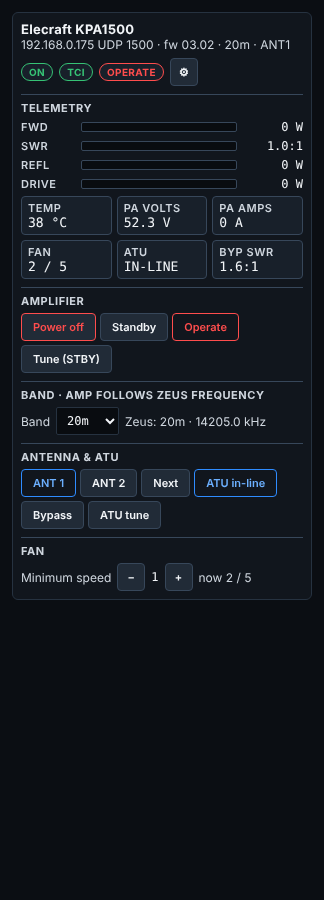
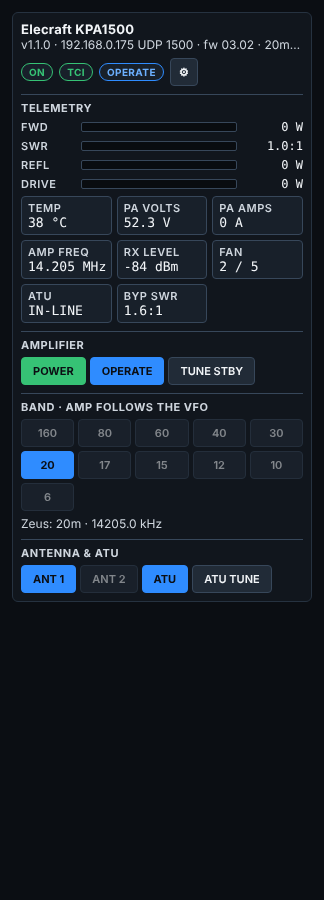
1.1.0: lit toggle buttons, band buttons, always-visible RX level, version in header
- POWER / OPERATE / ATU / TUNE STBY / ATU TUNE are single toggles, filled
  when active (OPERATE blue, POWER green, tuning amber)
- ANT 1/2 and a band button row light the active choice and fade the rest
- Locked controls keep a dashed outline so locked never looks like inactive
- RX level tile shows TCI off / TCI wait instead of disappearing
- Header shows the feature version; OPERATE tag is blue, red only for TX

Claude-Session: https://claude.ai/code/session_012y4gHm9L1yG8h6Yc21BskF

diff --git a/src/Kpa1500/ui/kpa1500.es.js b/src/Kpa1500/ui/kpa1500.es.js
@@ -67,8 +67,13 @@ const CSS = `
 .${ROOT} button.${ROOT}__b:focus-visible,.${ROOT} .${ROOT}__in:focus-visible,.${ROOT} input[type=checkbox]:focus-visible,
 .${ROOT} input[type=radio]:focus-visible{outline:2px solid var(--accent-bright);outline-offset:2px}
 .${ROOT} button.${ROOT}__b:disabled{opacity:.75;border-style:dashed;cursor:not-allowed}
-.${ROOT} button.${ROOT}__b[aria-pressed=true]{border-color:var(--accent);color:var(--accent-bright);background:var(--bg-1)}
-.${ROOT} button.${ROOT}__b.${ROOT}__oper[aria-pressed=true]{border-color:var(--tx);color:var(--tx)}
+.${ROOT} button.${ROOT}__b[aria-pressed=true]{background:var(--accent);border-color:var(--accent);color:var(--bg-0);font-weight:700}
+.${ROOT} button.${ROOT}__b.${ROOT}__litok[aria-pressed=true]{background:var(--ok);border-color:var(--ok)}
+.${ROOT} button.${ROOT}__b.${ROOT}__litamber[aria-pressed=true]{background:var(--amber);border-color:var(--amber)}
+.${ROOT} button.${ROOT}__b.${ROOT}__faint{opacity:.5}
+.${ROOT} button.${ROOT}__b.${ROOT}__faint:hover:not(:disabled){opacity:.85}
+.${ROOT} .${ROOT}__bands{display:grid;grid-template-columns:repeat(auto-fill,minmax(44px,1fr));gap:4px}
+.${ROOT} .${ROOT}__bands button.${ROOT}__b{padding:4px 2px}
 .${ROOT} button.${ROOT}__b.${ROOT}__danger{border-color:var(--tx);color:var(--tx)}
 .${ROOT} button.${ROOT}__b.${ROOT}__good{border-color:var(--ok);color:var(--ok)}
 .${ROOT} button.${ROOT}__icon{min-width:28px;padding:4px 7px}
@@ -281,7 +286,7 @@ function makePanel(callBackend) {
       amp.powerOnInProgress ? "WAKING…" : on ? "ON" : amp.power === "off" ? "OFF" : "NO REPLY"));
     if (tci.enabled) pills.push(h("span", { key: "tci", className: c("pill " + (tci.connected ? "ok" : "warn")), title: "TCI " + tci.target },
       tci.connected ? (tci.tune ? "TCI TUNE" : "TCI") : "TCI WAIT"));
-    if (on && amp.operate != null) pills.push(h("span", { key: "o", className: c("pill " + (amp.operate ? "tx" : "acc")) }, amp.operate ? "OPERATE" : "STANDBY"));
+    if (on && amp.operate != null) pills.push(h("span", { key: "o", className: c("pill " + (amp.operate ? "acc" : "")) }, amp.operate ? "OPERATE" : "STANDBY"));
     if (tx) pills.push(h("span", { key: "t", className: c("pill tx") }, "TX"));
     if (tuning) pills.push(h("span", { key: "u", className: c("pill warn") }, "ATU TUNING"));
     if (fault) pills.push(h("span", { key: "f", className: c("pill tx") }, "FAULT " + fault.code));
@@ -290,7 +295,7 @@ function makePanel(callBackend) {
       h("div", { className: c("grow") },
         h("div", { className: c("title") }, "Elecraft KPA1500"),
         h("div", { className: c("sub") },
-          (conn.target || "no connection set") +
+          "v" + (status.version || "?") + " · " + (conn.target || "no connection set") +
           (amp.firmware ? " · fw " + amp.firmware : "") +
           (amp.band ? " · " + amp.band : "") +
           (on && amp.antenna ? " · ANT" + amp.antenna : ""))),
@@ -383,10 +388,13 @@ function makePanel(callBackend) {
       const off = amp.freqKhz != null && vfoKhz != null && Math.abs(amp.freqKhz - vfoKhz) > 10 && cfg.sendFrequency;
       tiles.push(Tile(off ? "Amp freq ≠ VFO" : "Amp freq", mhz(amp.freqKhz), off));
     }
-    if (cfg.showRxLevel && cfg.noAntEnabled) {
+    if (cfg.showRxLevel) {
       const na = status.noAnt || {};
       const bad = na.state === "low" || na.state === "tx";
-      tiles.push(Tile("RX level", na.dbm == null ? "—" : Math.round(na.dbm) + " dBm", bad));
+      const text = !cfg.tciEnabled ? "TCI off"
+        : !tci.connected ? "TCI wait"
+        : na.dbm == null ? "—" : Math.round(na.dbm) + " dBm";
+      tiles.push(Tile("RX level", text, bad));
     }
     if (cfg.showFan) tiles.push(Tile("Fan", amp.fan == null ? "—" : String(amp.fan) + " / 5"));
     if (cfg.showAtuStatus) {
@@ -400,28 +408,39 @@ function makePanel(callBackend) {
       tiles.length ? h("div", { className: c("tiles") }, tiles) : null) : null;
 
     // ── controls ──
+    // Every two-state control is one toggle that is filled (lit) when active.
+    // Pairs/sets (ANT 1/2, bands) light the active one and fade the others.
+    // Dashed outline = locked (transmitting / tuning / amp off), never "inactive".
+    const toggle = (key, label, lit, opts) => h("button", { key, type: "button",
+      className: c("b " + (opts.variant || "") + (opts.faint ? " faint" : "")),
+      "aria-pressed": !!lit, disabled: !!opts.disabled, title: opts.title, onClick: opts.onClick }, label);
+
     const ampBtns = [];
     if (cfg.ctlPower) {
-      ampBtns.push(h("button", { key: "pw", type: "button", className: c("b " + (on ? "danger" : "good")),
-        disabled: !connected || busy || amp.powerOnInProgress || (on && (tx || tuning)), title: on && tx ? "Not while transmitting" : undefined,
+      ampBtns.push(toggle("pw", amp.powerOnInProgress ? "WAKING…" : "POWER", on || amp.powerOnInProgress, {
+        variant: "litok",
+        disabled: !connected || busy || amp.powerOnInProgress || (on && (tx || tuning)),
+        title: on ? (tx ? "Not while transmitting" : "Amplifier is ON — click to turn it off") : "Amplifier is off — click to turn it on",
         onClick: () => {
           const want = on ? "off" : "on";
           if ((want === "off" && cfg.confirmPowerOff) || (want === "on" && cfg.confirmPowerOn)) setConfirm(want);
           else act("/power", { on: want === "on" });
-        } }, amp.powerOnInProgress ? "Waking…" : on ? "Power off" : "Power on"));
+        } }));
     }
     if (cfg.ctlOperate) {
-      ampBtns.push(h("button", { key: "st", type: "button", className: c("b"), "aria-pressed": on && amp.operate === false,
-        disabled: !on || busy, onClick: () => act("/operate", { operate: false }) }, "Standby"));
-      ampBtns.push(h("button", { key: "op", type: "button", className: c("b oper"), "aria-pressed": on && amp.operate === true,
-        disabled: relayLock, title: lockTip, onClick: () => act("/operate", { operate: true }) }, "Operate"));
+      const operating = on && amp.operate === true;
+      ampBtns.push(toggle("op", "OPERATE", operating, {
+        // Going to STANDBY is always allowed (even under RF); going to OPERATE is locked under RF.
+        disabled: operating ? (!on || busy) : relayLock,
+        title: !on ? "Amplifier is off" : operating ? "In OPERATE — click for STANDBY" : (lockTip || "In STANDBY — click for OPERATE"),
+        onClick: () => act("/operate", { operate: !operating }) }));
     }
     if (cfg.standbyOnTune && cfg.ctlTuneGuard) {
-      ampBtns.push(guard.phase === "idle"
-        ? h("button", { key: "tg", type: "button", className: c("b"), disabled: !on || busy,
-            title: "Put the amp in STANDBY for the radio's TUNE, then back to OPERATE", onClick: () => act("/tune-guard", { arm: true }) }, "Tune (STBY)")
-        : h("button", { key: "tg", type: "button", className: c("b"), "aria-pressed": true,
-            onClick: () => act("/tune-guard", { arm: false }) }, "Cancel tune STBY"));
+      const armed = guard.phase !== "idle";
+      ampBtns.push(toggle("tg", "TUNE STBY", armed, {
+        variant: "litamber", disabled: !on || busy,
+        title: armed ? "Standby-on-Tune armed — click to cancel" : "Click, then press TUNE on the radio: the amp goes to STANDBY for the tune and back to OPERATE after",
+        onClick: () => act("/tune-guard", { arm: !armed }) }));
     }
 
     const groups = [];
@@ -429,33 +448,43 @@ function makePanel(callBackend) {
       h("div", { className: c("glab") }, "Amplifier"), h("div", { className: c("btns") }, ampBtns)));
 
     if (cfg.ctlBand) {
+      const radioText = status.radio && status.radio.available && status.radio.band
+        ? (status.radio.source || "Zeus") + ": " + status.radio.band + " · " + (status.radio.frequencyHz / 1000).toFixed(1) + " kHz"
+        : "Zeus radio state not available";
       groups.push(h("div", { key: "b", className: c("group") },
         h("div", { className: c("glab") }, "Band" + (cfg.sendFrequency ? " · amp follows the VFO" : "")),
-        h("div", { className: c("row") },
-          h("label", { className: c("muted"), htmlFor: ROOT + "-band" }, "Band"),
-          h("select", { id: ROOT + "-band", className: c("in"), value: amp.band || "", disabled: relayLock, title: lockTip,
-            onChange: (e) => { if (e.target.value) act("/band", { band: e.target.value }); } },
-            [h("option", { key: "", value: "" }, "—")].concat(BANDS.map((b) => h("option", { key: b, value: b }, b)))),
-          status.radio && status.radio.available && status.radio.band
-            ? h("span", { className: c("muted") }, (status.radio.source || "Zeus") + ": " + status.radio.band + " · " + (status.radio.frequencyHz / 1000).toFixed(1) + " kHz")
-            : h("span", { className: c("muted") }, "Zeus radio state not available"))));
+        h("div", { className: c("bands"), role: "group", "aria-label": "Amplifier band" },
+          BANDS.map((b) => {
+            const active = on && amp.band === b;
+            return toggle("bd" + b, b.replace("m", ""), active, {
+              faint: on && amp.band != null && !active, disabled: relayLock && !active,
+              title: active ? "Amp is on " + b : (lockTip || "Set the amp to " + b),
+              onClick: () => { if (!active) act("/band", { band: b }); } });
+          })),
+        h("div", { className: c("muted") }, radioText)));
     }
 
     if (cfg.ctlAntenna || cfg.ctlAtu || cfg.ctlTune) {
       const atuBtns = [];
-      if (cfg.ctlAntenna) [1, 2].forEach((a) => atuBtns.push(h("button", { key: "a" + a, type: "button", className: c("b"),
-        "aria-pressed": on && amp.antenna === a, disabled: relayLock, title: lockTip, onClick: () => act("/antenna", { antenna: a }) }, "ANT " + a)));
-      if (cfg.ctlAntenna) atuBtns.push(h("button", { key: "an", type: "button", className: c("b"), disabled: relayLock, title: lockTip,
-        onClick: () => act("/antenna", { antenna: 0 }) }, "Next"));
+      if (cfg.ctlAntenna) [1, 2].forEach((a) => {
+        const active = on && amp.antenna === a;
+        atuBtns.push(toggle("a" + a, "ANT " + a, active, {
+          faint: on && amp.antenna != null && !active, disabled: relayLock && !active,
+          title: active ? "Antenna " + a + " in use" : (lockTip || "Switch to antenna " + a),
+          onClick: () => { if (!active) act("/antenna", { antenna: a }); } }));
+      });
       if (cfg.ctlAtu) {
-        atuBtns.push(h("button", { key: "il", type: "button", className: c("b"), "aria-pressed": on && amp.atuInline === true,
-          disabled: relayLock, title: lockTip, onClick: () => act("/atu", { inline: true }) }, "ATU in-line"));
-        atuBtns.push(h("button", { key: "by", type: "button", className: c("b"), "aria-pressed": on && amp.atuInline === false,
-          disabled: relayLock, title: lockTip, onClick: () => act("/atu", { inline: false }) }, "Bypass"));
+        const inline = on && amp.atuInline === true;
+        atuBtns.push(toggle("atu", "ATU", inline, {
+          disabled: relayLock,
+          title: lockTip || (inline ? "ATU in-line — click to bypass" : "ATU bypassed — click to put it in-line"),
+          onClick: () => act("/atu", { inline: !inline }) }));
       }
-      if (cfg.ctlTune) atuBtns.push(tuning
-        ? h("button", { key: "tc", type: "button", className: c("b danger"), disabled: busy, onClick: () => act("/atu/cancel") }, "Cancel ATU tune")
-        : h("button", { key: "tn", type: "button", className: c("b"), disabled: relayLock, title: lockTip, onClick: () => setConfirm("tune") }, "ATU tune"));
+      if (cfg.ctlTune) atuBtns.push(toggle("tn", tuning ? "TUNING…" : "ATU TUNE", tuning, {
+        variant: "litamber",
+        disabled: tuning ? busy : relayLock,
+        title: tuning ? "ATU is tuning — click to cancel" : (lockTip || "Start a full-search ATU tune (you supply the carrier)"),
+        onClick: () => tuning ? act("/atu/cancel") : setConfirm("tune") }));
       groups.push(h("div", { key: "t", className: c("group") },
         h("div", { className: c("glab") }, "Antenna & ATU"), h("div", { className: c("btns") }, atuBtns)));
     }

diff --git a/src/Kpa1500/Kpa1500Plugin.cs b/src/Kpa1500/Kpa1500Plugin.cs
@@ -27,7 +27,7 @@ public sealed record OnRequest(bool On);
 public sealed class Kpa1500Plugin : IZeusPlugin, IBackendPlugin
 {
     /// <summary>Keep identical to plugin.json "version".</summary>
-    public const string ManifestVersion = "1.0.0";
+    public const string ManifestVersion = "1.1.0";
     private const string SettingsKey = "config";
 
     private IPluginContext? _ctx;

diff --git a/README.md b/README.md
@@ -36,11 +36,11 @@ writes everything to `build-log.txt`.
 
 | Computer | Install file |
 | --- | --- |
-| Windows | `com.kw4ex.zeus.kpa1500-1.0.0.zip` |
-| Mac with Apple silicon (M1–M4) | `com.kw4ex.zeus.kpa1500-1.0.0-osx-arm64.zip` |
-| Intel Mac | `com.kw4ex.zeus.kpa1500-1.0.0-osx-x64.zip` |
-| Linux PC (64-bit Intel/AMD) | `com.kw4ex.zeus.kpa1500-1.0.0-linux-x64.zip` |
-| Raspberry Pi 4/5 (64-bit OS) | `com.kw4ex.zeus.kpa1500-1.0.0-linux-arm64.zip` |
+| Windows | `com.kw4ex.zeus.kpa1500-1.1.0.zip` |
+| Mac with Apple silicon (M1–M4) | `com.kw4ex.zeus.kpa1500-1.1.0-osx-arm64.zip` |
+| Intel Mac | `com.kw4ex.zeus.kpa1500-1.1.0-osx-x64.zip` |
+| Linux PC (64-bit Intel/AMD) | `com.kw4ex.zeus.kpa1500-1.1.0-linux-x64.zip` |
+| Raspberry Pi 4/5 (64-bit OS) | `com.kw4ex.zeus.kpa1500-1.1.0-linux-arm64.zip` |
 
 The packages differ only in the bundled serial-port library (macOS adds
 `libSystem.IO.Ports.Native.dylib`, Linux `libSystem.IO.Ports.Native.so`); the
